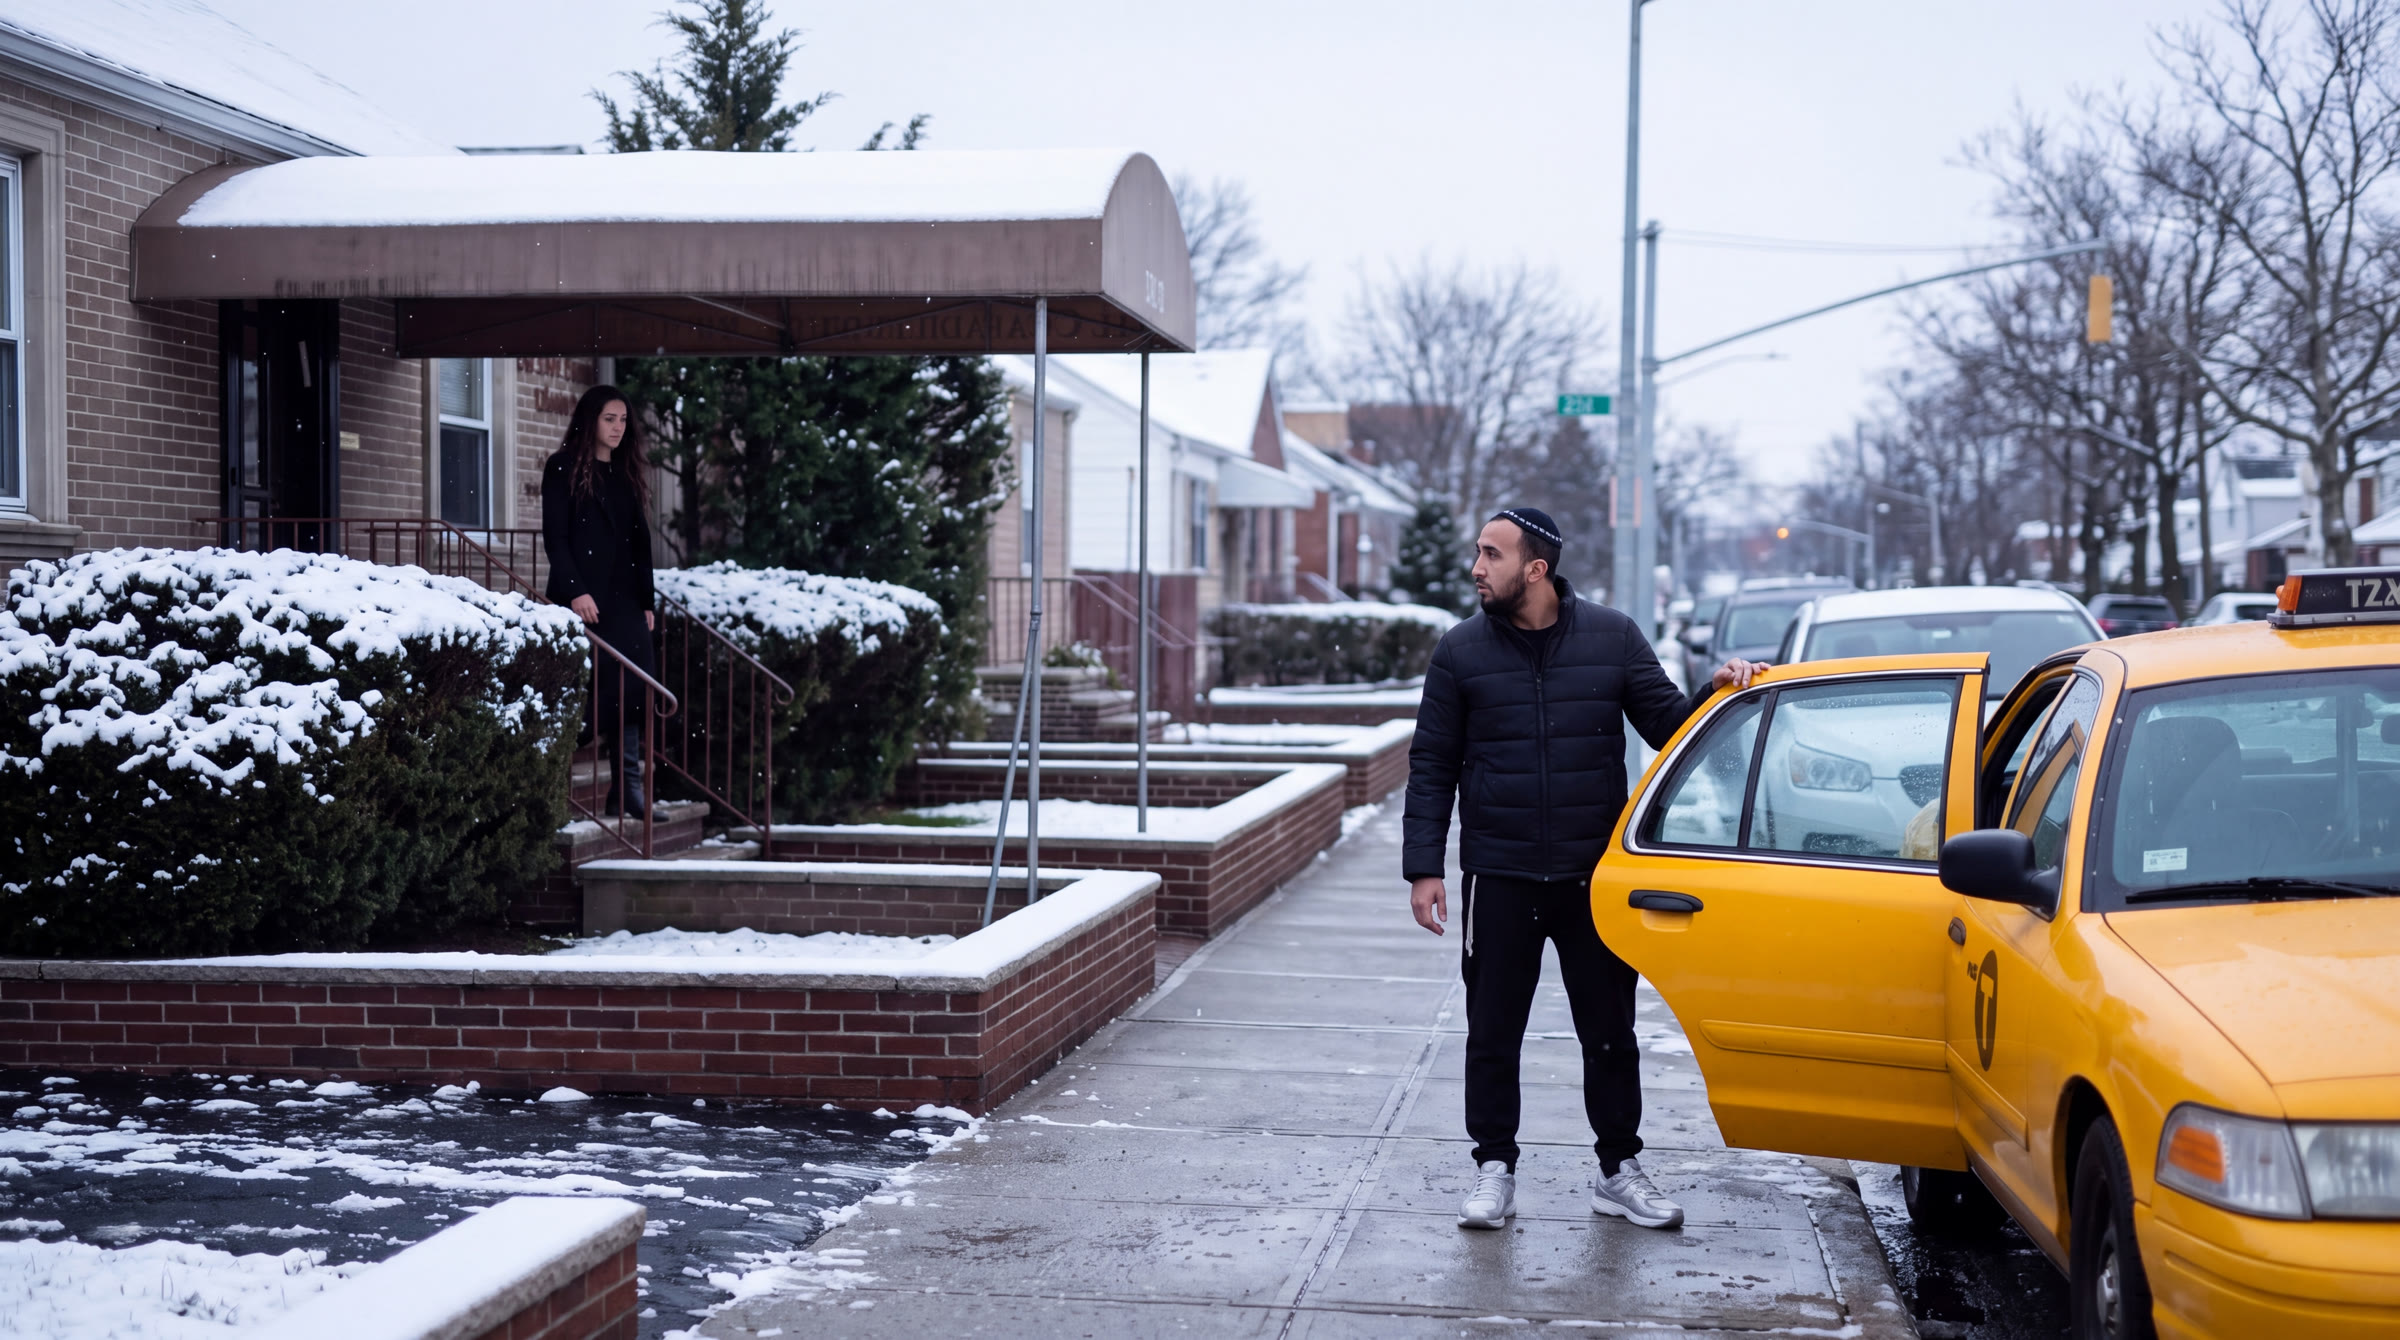
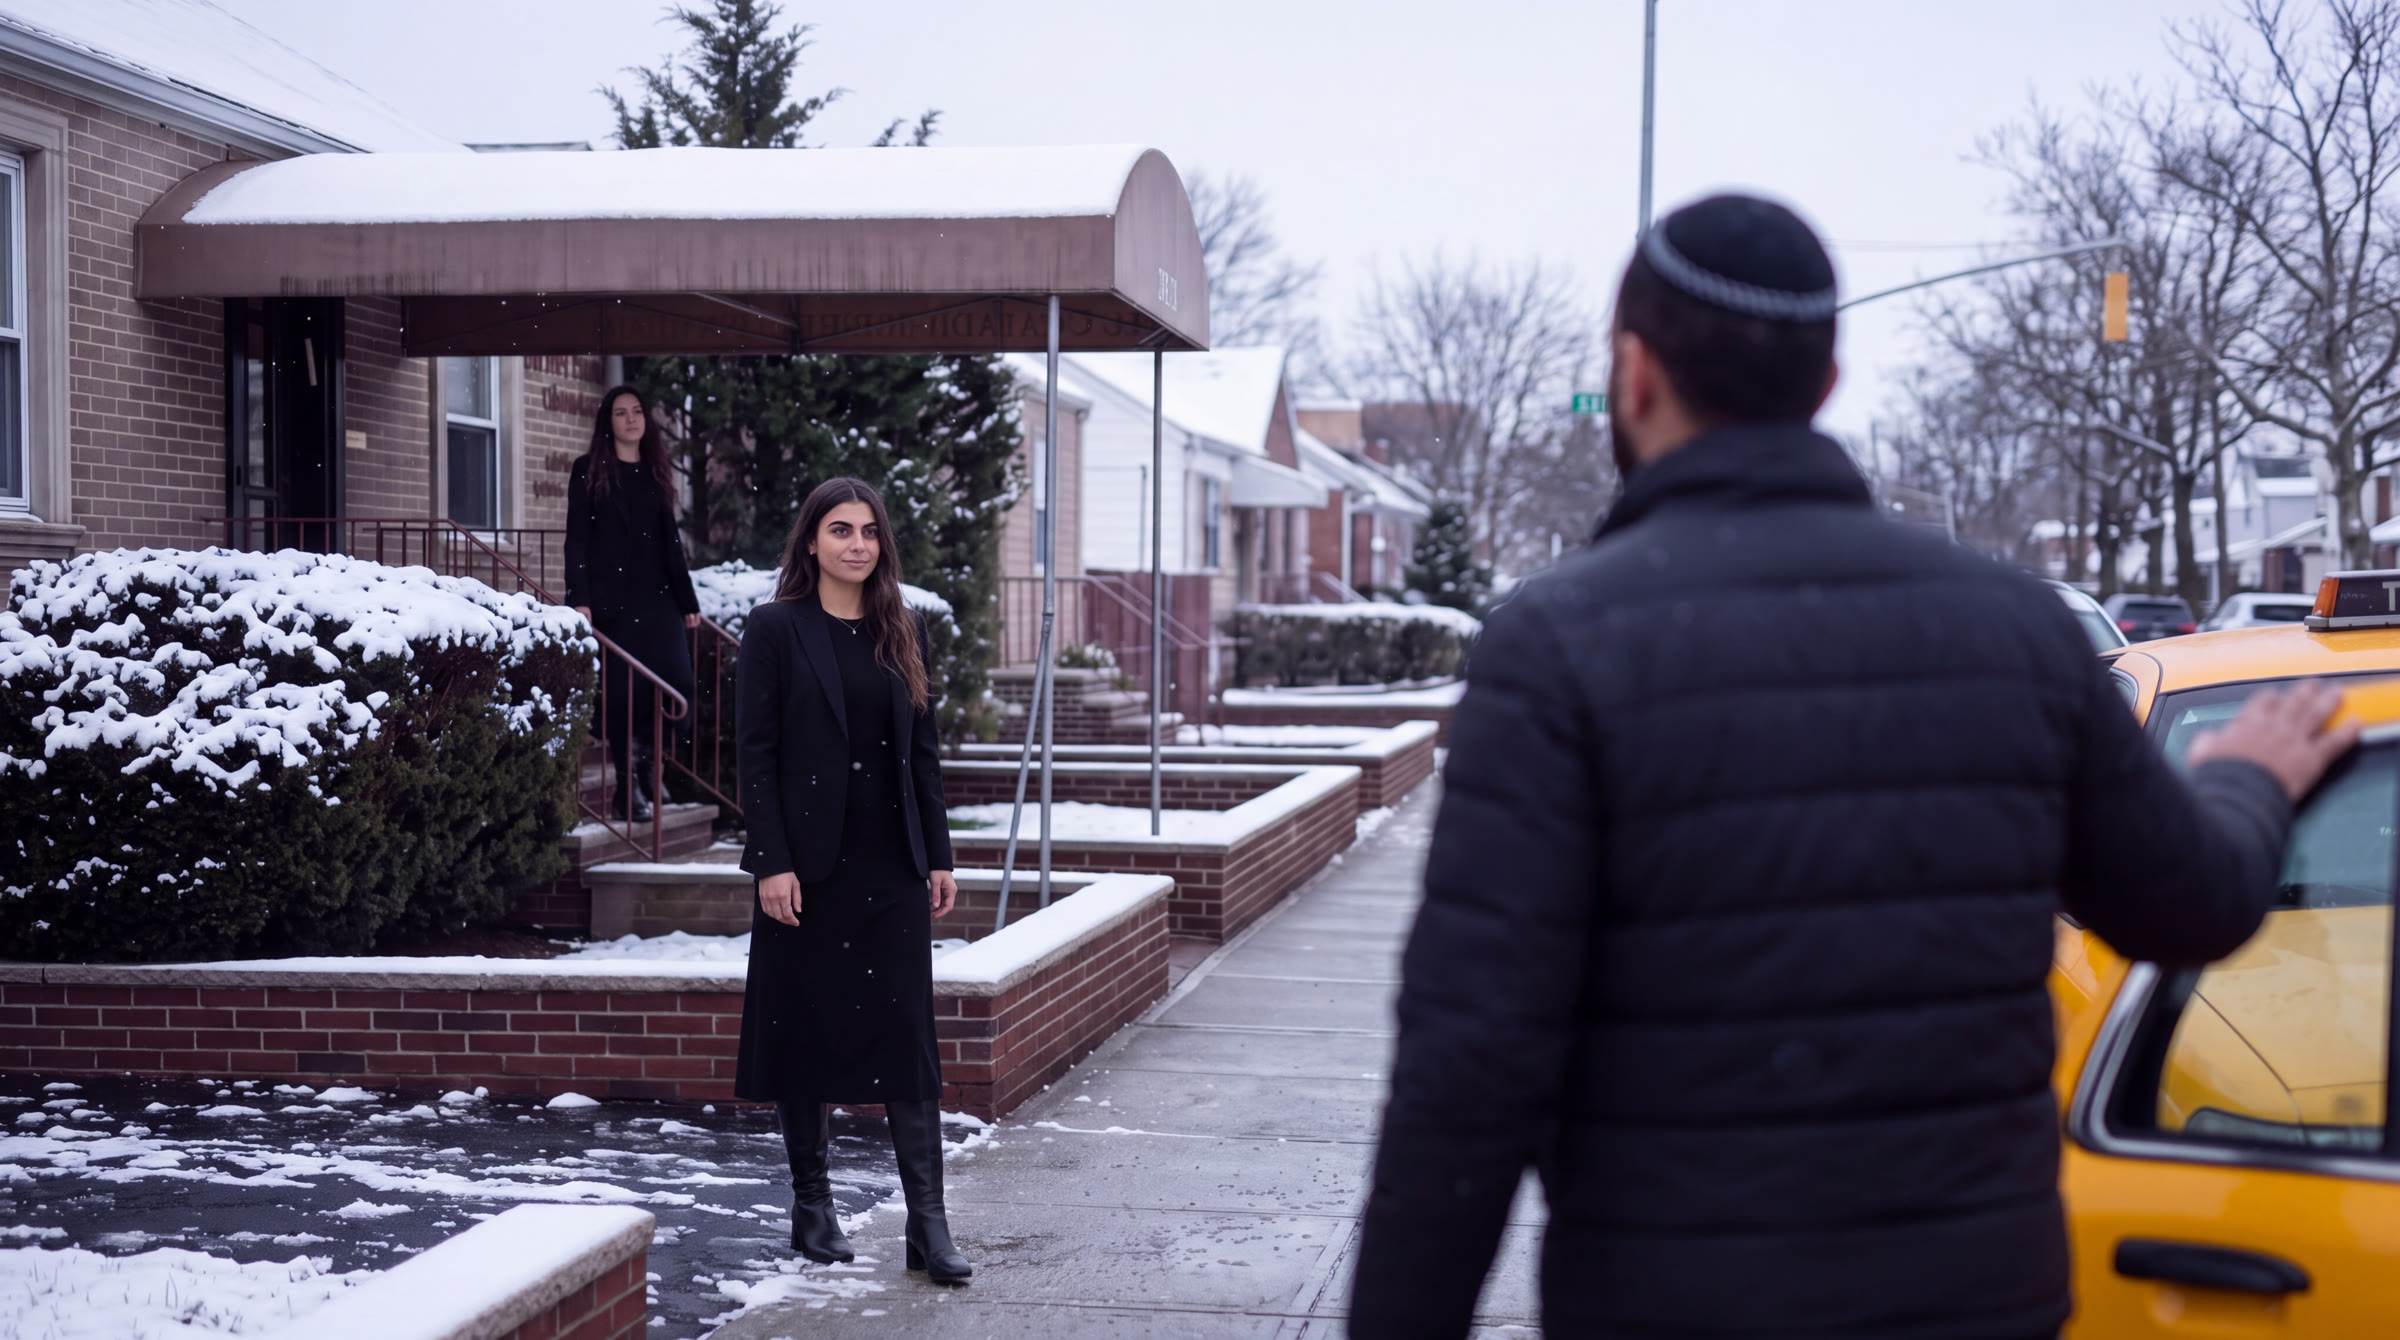
Séquence 2 : 2.5 miroir, 2.6 et 2.7 refaits
Claude-Session: https://claude.ai/code/session_01FDkXSruYP2nSK7GDo2br1M

diff --git a/outputs/shirel-lyron/04-controle-qualite.md b/outputs/shirel-lyron/04-controle-qualite.md
@@ -144,7 +144,8 @@ Fitted white long-sleeve mini dress in a soft, slightly sheer jersey, high round
 | Séquence 2 · 8 images clés | 2.0 `464d4cd7-e4c0-4e31-951d-815d4b6fc561` (1er essai `ec48de16` échoué côté Higgsfield) ✓ · 2.1 `1dbacdde-2784-485f-8678-36343def83ae` (cadrage différent de 2.4, petit pupitre au lieu de la longue table) · 2.2 `0ee26223-2081-44eb-ac2a-d827ac753cfa` ✓ · 2.3 `fd5ad7e0-8e0a-400a-a548-4419d1be0dfc` ✓ · 2.4 `d819a60c-2ae2-47db-b75e-0d4848a8114f` ✓ · 2.5 `19b8b42f-babc-4dec-b89e-4df9a8de74f9` ✗ Shirel nette et du côté des hommes, pas derrière le rideau de chaînettes · 2.6 `38a2f515-b883-4fec-8d25-44dcc42f7dfc` ✓ · 2.8 `68f6d225-1a99-4735-b2e9-c7e9c768b544` ✓ | 24 |
 | Séquence 2 · 5 corrections (retours de Samuel) | 2.0a JFK (nouveau) `074545c3-53c2-49e6-8e53-a98bf8cf6768` ✓ · 2.0 Shirel monte le vrai escalier `ef5b17e7-3e3f-438a-af1a-a9ad01d6a7fa` ✓ (plaque murale à flouter au montage) · 2.3 Lyron monte le vrai escalier `de4bed14-752e-416c-bceb-158ebfc86133` ✓ · 2.2 Ohel avec les deux stèles `4b130a77-0ad4-4bd2-8a84-53cf12847199` ✓ (inscriptions à adoucir au montage) · 2.5 Lyron + Shirel derrière le rideau de chaînettes, stèles floues `86b3349d-3333-4483-848f-98c56a554b29` ✓ | 15 |
 | Séquence 2 · 3 corrections (retours de Samuel) | 2.0 valise retirée par retouche ciblée (masque) `540b0a78-8b8c-4058-b73d-200f72c42e7a` ✓ main vide · 2.2 Shirel DEVANT le muret (plus dans l'enceinte), vue de 3/4 dos, stèles au fond `7b1e6102-9838-46a7-bf84-ac72d7abef15` ✓ · 2.5 Lyron devant le muret, rideau de chaînettes, Shirel côté femmes `94507209-cb93-40ac-a96b-f17318cc6df6` ✓ | 9 |
-| **Total dépensé** | | **1 030 cr** |
+| Séquence 2 · 3 corrections (retours de Samuel) | 2.5 Lyron seul au muret, miroir de 2.2 `1f1bb7d1-f40c-4d8e-ac85-787a991c5992` ✓ · 2.6 Lyron de dos au taxi, Shirel reconnaissable `7717b149-7464-4987-b6d8-1a9d78b4b5e8` ✗ Shirel en double (une 2e femme en haut des marches) · 2.7 gros plan Lyron qui sourit en la regardant `ff17ff52-ac48-481f-ae34-ca6e90e06b6b` ✓ | 9 |
+| **Total dépensé** | | **1 039 cr** |
 
 **Références Shirel définitives (v5) :** sheet `da688b2a-951a-4108-a7b6-d6e8cca2e108` · photo réelle `5fc6f1cb-77f2-4008-902c-b8287a3862b6` · T1 voyage `e38c01ef-40d5-47a2-afbc-776a7ba2cd00` · T2 `0b9e3e4a-60aa-4238-befb-4832e5befcdf` · T3 `d951d6b5-89e3-4e50-8d18-107bcc6e47a5` · T4 `b8c2ecc2-d75c-4051-a160-1134c45960b7` · Sourires `39c2ea5a-757e-43e5-a729-688fda2fb476`.
 
